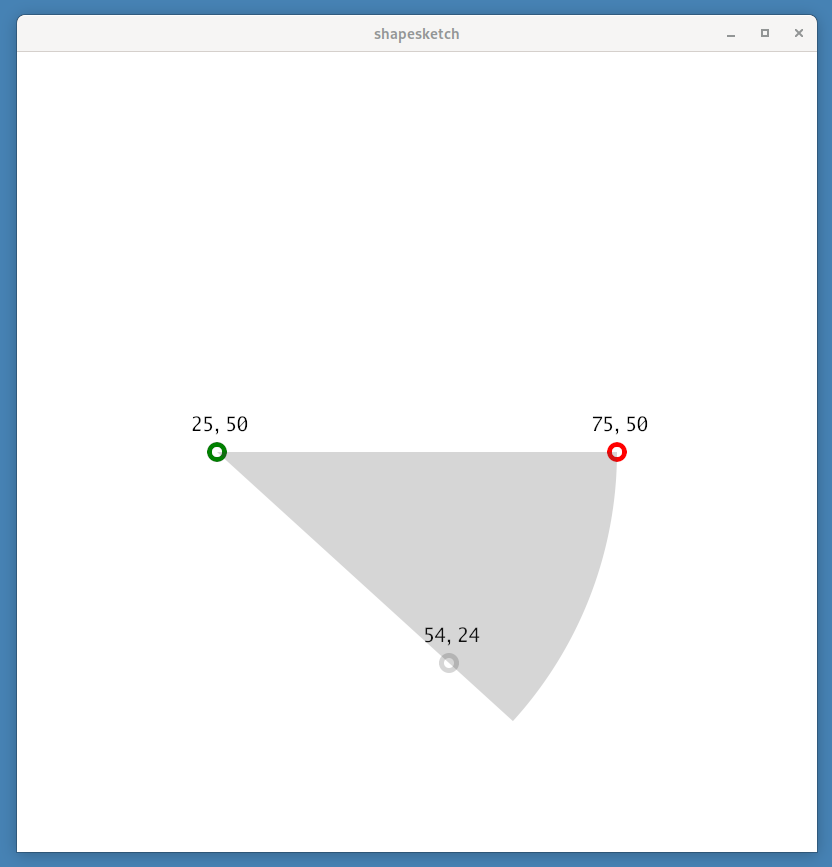
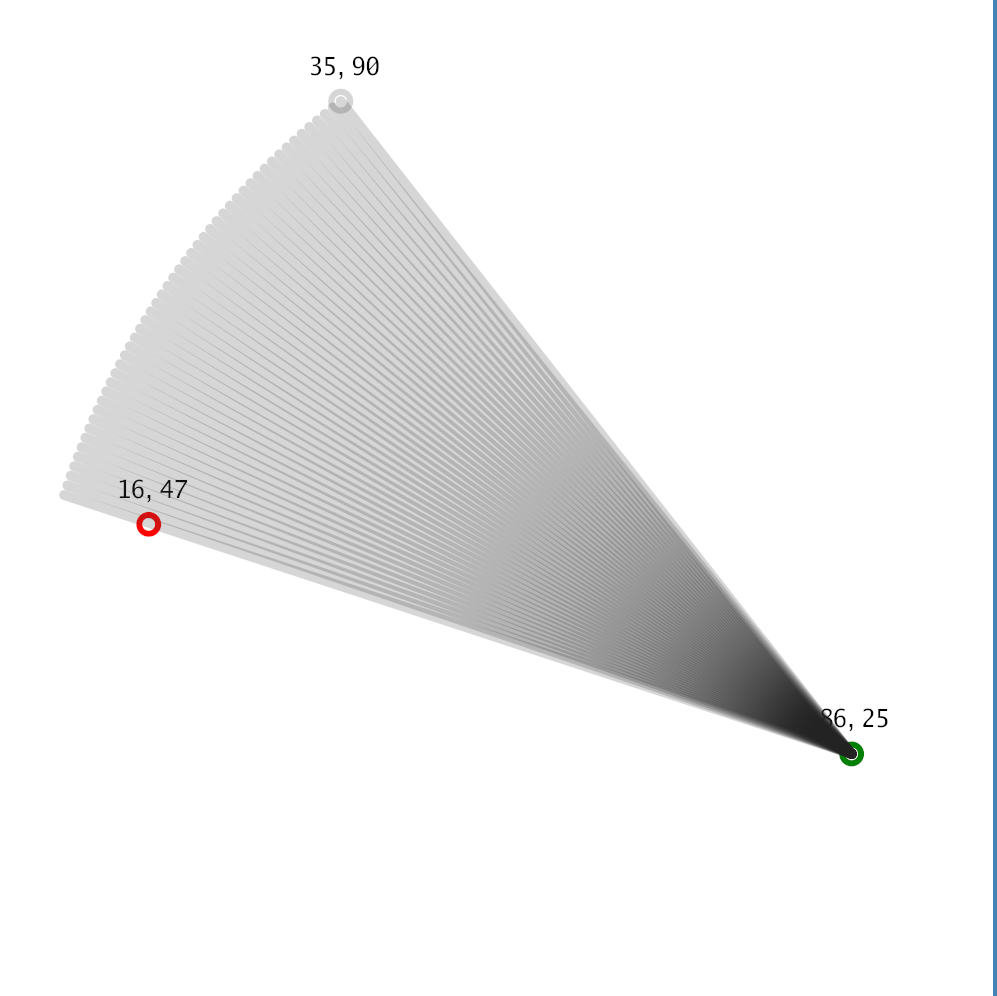
shapesketch: rework arc

diff --git a/shapesketch/main.go b/shapesketch/main.go
@@ -10,13 +10,10 @@ import (
 	"strconv"
 
 	"gioui.org/app"
-	"gioui.org/f32"
 	"gioui.org/io/event"
 	"gioui.org/io/key"
 	"gioui.org/io/pointer"
 	"gioui.org/io/system"
-	"gioui.org/op/clip"
-	"gioui.org/op/paint"
 	"gioui.org/unit"
 	"github.com/ajstarks/giocanvas"
 )
@@ -145,17 +142,21 @@ func dist(x1, y1, x2, y2 float32) float32 {
 }
 
 func rad2deg(r float32) float32 {
-	return float32((180 / math.Pi) * r)
+	d := float32((180 / math.Pi) * r)
+	if d < 0 {
+		return 360 + d
+	}
+	return d
 }
 
 func arcElements() (float32, float64, float64) {
 	r := dist(bx, by, cx, cy)
-	dy1 := float64(by - cy)
-	dx1 := float64(bx - cx)
-	dy2 := float64(by - ey)
-	dx2 := float64(bx - ex)
-	a1 := math.Atan2(dy2, dx2)
-	a2 := math.Atan2(dy1, dx1)
+	dx1 := float64(ex - bx)
+	dy1 := float64(ey - by)
+	dx2 := float64(cx - bx)
+	dy2 := float64(cy - by)
+	a1 := math.Atan2(dy1, dx1)
+	a2 := math.Atan2(dy2, dx2)
 	return r, a1, a2
 }
 
@@ -171,18 +172,6 @@ func dimen(xp, yp, w, h float32) (float32, float32) {
 }
 
 func arc(canvas *giocanvas.Canvas, size float32, fillcolor color.NRGBA) {
-	_, a1, a2 := arcElements()
-	f1x, f1y := dimen(bx, by, canvas.Width, canvas.Height)
-	curx, cury := dimen(cx, cy, canvas.Width, canvas.Height)
-	size = canvas.Width * (size / 100)
-	path := new(clip.Path)
-	ops := canvas.Context.Ops
-	path.Begin(ops)
-	path.Move(f32.Pt(curx, cury))
-	path.ArcTo(f32.Pt(f1x, f1y), f32.Pt(f1x, f1y), float32(a1+a2))
-	stack := clip.Stroke{Path: path.End(), Width: size}.Op().Push(ops)
-	paint.Fill(ops, fillcolor)
-	stack.Pop()
 }
 
 // kbpointer processes the keyboard events and pointer events in percent coordinates
@@ -333,11 +322,12 @@ func shapesketch(w *app.Window, cfg config) error {
 				textcoord(canvas, bx, by, begincolor, cfg)
 				textcoord(canvas, ex, ey, endcolor, cfg)
 				textcoord(canvas, cx, cy, shapecolor, cfg)
-				r, a1, a2 := arcElements()
-				canvas.Arc(bx, by, r, a1, a2, cfg.shapecolor)
-				//arc(canvas, cfg.linesize, cfg.shapecolor)
+				r, a2, a1 := arcElements()
+				for t := a1; t < a2; t += math.Pi / 256 {
+					px, py := canvas.Polar(bx, by, r, float32(t))
+					canvas.Line(bx, by, px, py, cfg.linesize, cfg.shapecolor)
+				}
 			}
-
 			kbpointer(e.Queue, cfg)
 			cx, cy = mouseX, mouseY
 			e.Frame(canvas.Context.Ops)
